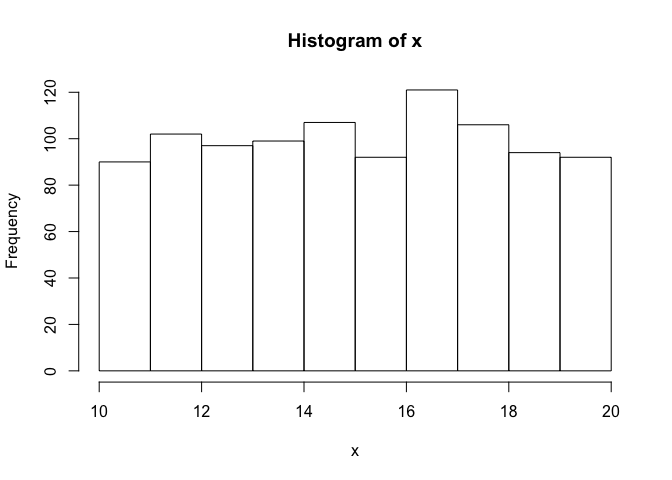
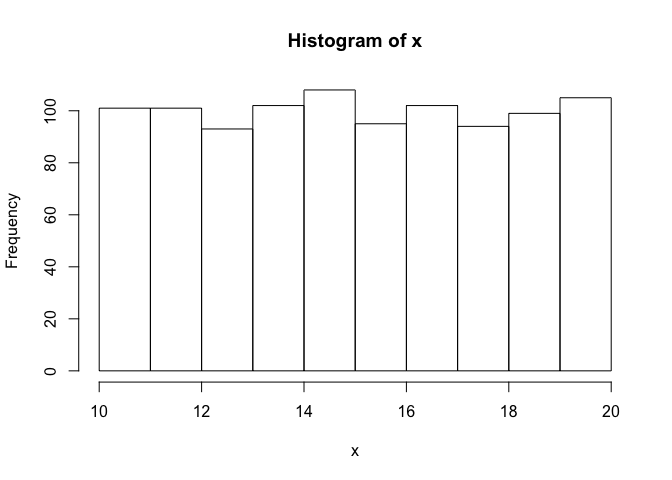
add links

diff --git a/Tutorial_6_Simulating_data.md b/Tutorial_6_Simulating_data.md
@@ -26,28 +26,28 @@ Generate random values from a normal distribution
 rnorm(n = 10) # 10 values (values from standard normal distribution: mean 0, sd 1)
 ```
 
-    ##  [1]  0.8477690  0.6354139 -0.9916428  0.9549779  0.3629186 -1.4496490
-    ##  [7] -1.1360180 -0.8094310 -0.3367988  1.5619097
+    ##  [1] -0.3735620  0.7777959  0.7445974  1.1672451 -1.2064221  0.6568749
+    ##  [7] -1.1431620 -1.2937284  0.1561832 -0.6357654
 
 ``` r
 rnorm(n = 100, mean = 100, sd = 15) # 100 values from a normal distribution (mean 100, sd = 15)
 ```
 
-    ##   [1] 108.61496 113.50543  86.58595  84.87790 106.13955  95.14666 104.57999
-    ##   [8]  99.75707 122.13782 100.24487  95.62853  96.21966 101.23567  90.65478
-    ##  [15]  99.46575  81.02504  88.23201  70.05598  94.79280 110.14183 120.56409
-    ##  [22] 123.71502 110.25227  85.40904  98.04528  63.77162  85.07142 107.73592
-    ##  [29] 126.59412  90.95393  57.29918 116.97163  90.58807  98.50388  95.11641
-    ##  [36] 102.29881  91.61215  85.85885  86.86357  78.17557  98.74421  85.48422
-    ##  [43] 101.62678 124.50967  89.91287  96.16041  91.96039 100.10152  99.69056
-    ##  [50]  99.01479  68.42615  68.48989  97.55059 103.55450  96.92452  97.10441
-    ##  [57] 101.14161 105.12934 108.89520  78.28871 113.95217 100.96597 117.14261
-    ##  [64] 112.77211 114.30957  96.39756  78.88632  86.49208 112.94404  83.49054
-    ##  [71] 115.45647 116.99769  82.14367 105.29631  92.88621 118.21089  59.46632
-    ##  [78] 118.81410 107.00212 106.94752 108.26599 123.32676 125.67225 100.12964
-    ##  [85]  74.85904 118.32804 116.89074  99.04053 104.08793  89.83206 127.13295
-    ##  [92] 102.51215  82.30248 115.69585 108.29386  98.81678  76.45135  96.79764
-    ##  [99]  86.52836  78.28423
+    ##   [1] 105.74860 113.92204  81.87528  90.17662  92.67157  96.93190  92.00505
+    ##   [8] 101.04087  97.23212  97.80605  89.23337 122.72160 106.51697  87.19012
+    ##  [15] 107.78176 105.24514  89.56983  99.78315 110.77149  88.08127  87.45945
+    ##  [22]  96.47797 113.15628 103.25982  85.37927  84.38860  84.51486 114.34191
+    ##  [29] 101.18028  98.42746 103.58979 111.90029 116.32861 101.12761  89.11802
+    ##  [36] 132.85740 120.16863  83.95442 123.76461 105.44488  95.08182 121.44770
+    ##  [43] 105.84660 112.51493  94.42049 102.69747  83.07766  92.65615  93.74298
+    ##  [50]  89.08314 120.39745  70.12123 112.82606  95.68735 103.12653  92.15702
+    ##  [57]  91.45644  66.55942  98.15931 130.62506  64.06313 105.96313 121.74977
+    ##  [64]  85.88973 111.67411 105.92233 112.88494  73.68201  86.32469  95.56725
+    ##  [71] 124.13204  85.74518  98.95612 110.78744 114.01290 104.17870  83.95371
+    ##  [78]  95.25683 115.55937  98.44797  97.78144 104.63717 103.66741 105.21529
+    ##  [85] 104.99607  94.87820  88.28022  87.53715 115.16225 107.77011 110.25043
+    ##  [92]  84.74748 110.05289 104.09761 119.55804  82.18753 121.26358 124.12697
+    ##  [99] 120.73847 100.84527
 
 ``` r
 x <- rnorm(n = 1000, mean = 100, sd = 15) # 1000 values from a normal distribution (mean 100, sd = 15)
@@ -80,46 +80,46 @@ print(fakeData, n = Inf)
     ## # A tibble: 40 x 2
     ##    group value
     ##    <chr> <dbl>
-    ##  1 a     131. 
-    ##  2 a     105. 
-    ##  3 a     119. 
-    ##  4 a     107. 
-    ##  5 a     101. 
-    ##  6 a      97.5
-    ##  7 a     103. 
-    ##  8 a     121. 
-    ##  9 a     119. 
-    ## 10 a      70.9
-    ## 11 a      86.3
-    ## 12 a      92.9
-    ## 13 a     117. 
-    ## 14 a     103. 
-    ## 15 a      89.5
-    ## 16 a      85.1
-    ## 17 a     108. 
-    ## 18 a      82.5
-    ## 19 a     104. 
-    ## 20 a     129. 
-    ## 21 b     106. 
-    ## 22 b     137. 
-    ## 23 b     134. 
-    ## 24 b     145. 
-    ## 25 b     119. 
-    ## 26 b     115. 
-    ## 27 b     136. 
-    ## 28 b     118. 
-    ## 29 b     121. 
-    ## 30 b     118. 
-    ## 31 b      82.1
-    ## 32 b     127. 
-    ## 33 b     140. 
-    ## 34 b     117. 
-    ## 35 b      81.4
-    ## 36 b      87.0
-    ## 37 b     113. 
-    ## 38 b     153. 
-    ## 39 b     102. 
-    ## 40 b     101.
+    ##  1 a     107. 
+    ##  2 a     140. 
+    ##  3 a     101. 
+    ##  4 a     105. 
+    ##  5 a     118. 
+    ##  6 a      85.6
+    ##  7 a      92.5
+    ##  8 a      65.2
+    ##  9 a      83.7
+    ## 10 a     103. 
+    ## 11 a      66.4
+    ## 12 a      91.6
+    ## 13 a      86.6
+    ## 14 a      90.6
+    ## 15 a     111. 
+    ## 16 a      84.5
+    ## 17 a     101. 
+    ## 18 a      87.8
+    ## 19 a     119. 
+    ## 20 a      97.8
+    ## 21 b     125. 
+    ## 22 b      96.2
+    ## 23 b     112. 
+    ## 24 b     128. 
+    ## 25 b     125. 
+    ## 26 b     147. 
+    ## 27 b      77.2
+    ## 28 b     141. 
+    ## 29 b     149. 
+    ## 30 b     108. 
+    ## 31 b     127. 
+    ## 32 b     102. 
+    ## 33 b      83.8
+    ## 34 b     118. 
+    ## 35 b     118. 
+    ## 36 b     127. 
+    ## 37 b      99.6
+    ## 38 b      95.9
+    ## 39 b     113. 
+    ## 40 b     120.
 
 Will group differences be significant?
 
@@ -132,13 +132,13 @@ simulateResults
     ##  Welch Two Sample t-test
     ## 
     ## data:  value by group
-    ## t = -2.4524, df = 36.092, p-value = 0.01916
+    ## t = -3.2132, df = 37.663, p-value = 0.00269
     ## alternative hypothesis: true difference in means is not equal to 0
     ## 95 percent confidence interval:
-    ##  -25.810913  -2.445207
+    ##  -30.599807  -6.941229
     ## sample estimates:
     ## mean in group a mean in group b 
-    ##        103.4998        117.6278
+    ##        96.85751       115.62803
 
 ``` r
 source("https://raw.githubusercontent.com/hauselin/Rcode/master/summaryh.R")
@@ -160,7 +160,7 @@ summaryh(simulateResults) # my custom function
 ```
 
     ##                              results
-    ## 1: t(36) = −2.45, p = .019, r = 0.38
+    ## 1: t(38) = −3.21, p = .003, r = 0.46
 
 Manipulating strings
 --------------------
@@ -215,6 +215,7 @@ grepl(pattern = "oo", x = text, ignore.case = F)
 ### Manipulating string resources
 
 -   [stringr tutorial/vignette](https://cran.r-project.org/web/packages/stringr/vignettes/stringr.html)
+-   [stringr github site](https://github.com/tidyverse/stringr)
 
 the apply family in R (looping without for loops)
 -------------------------------------------------
